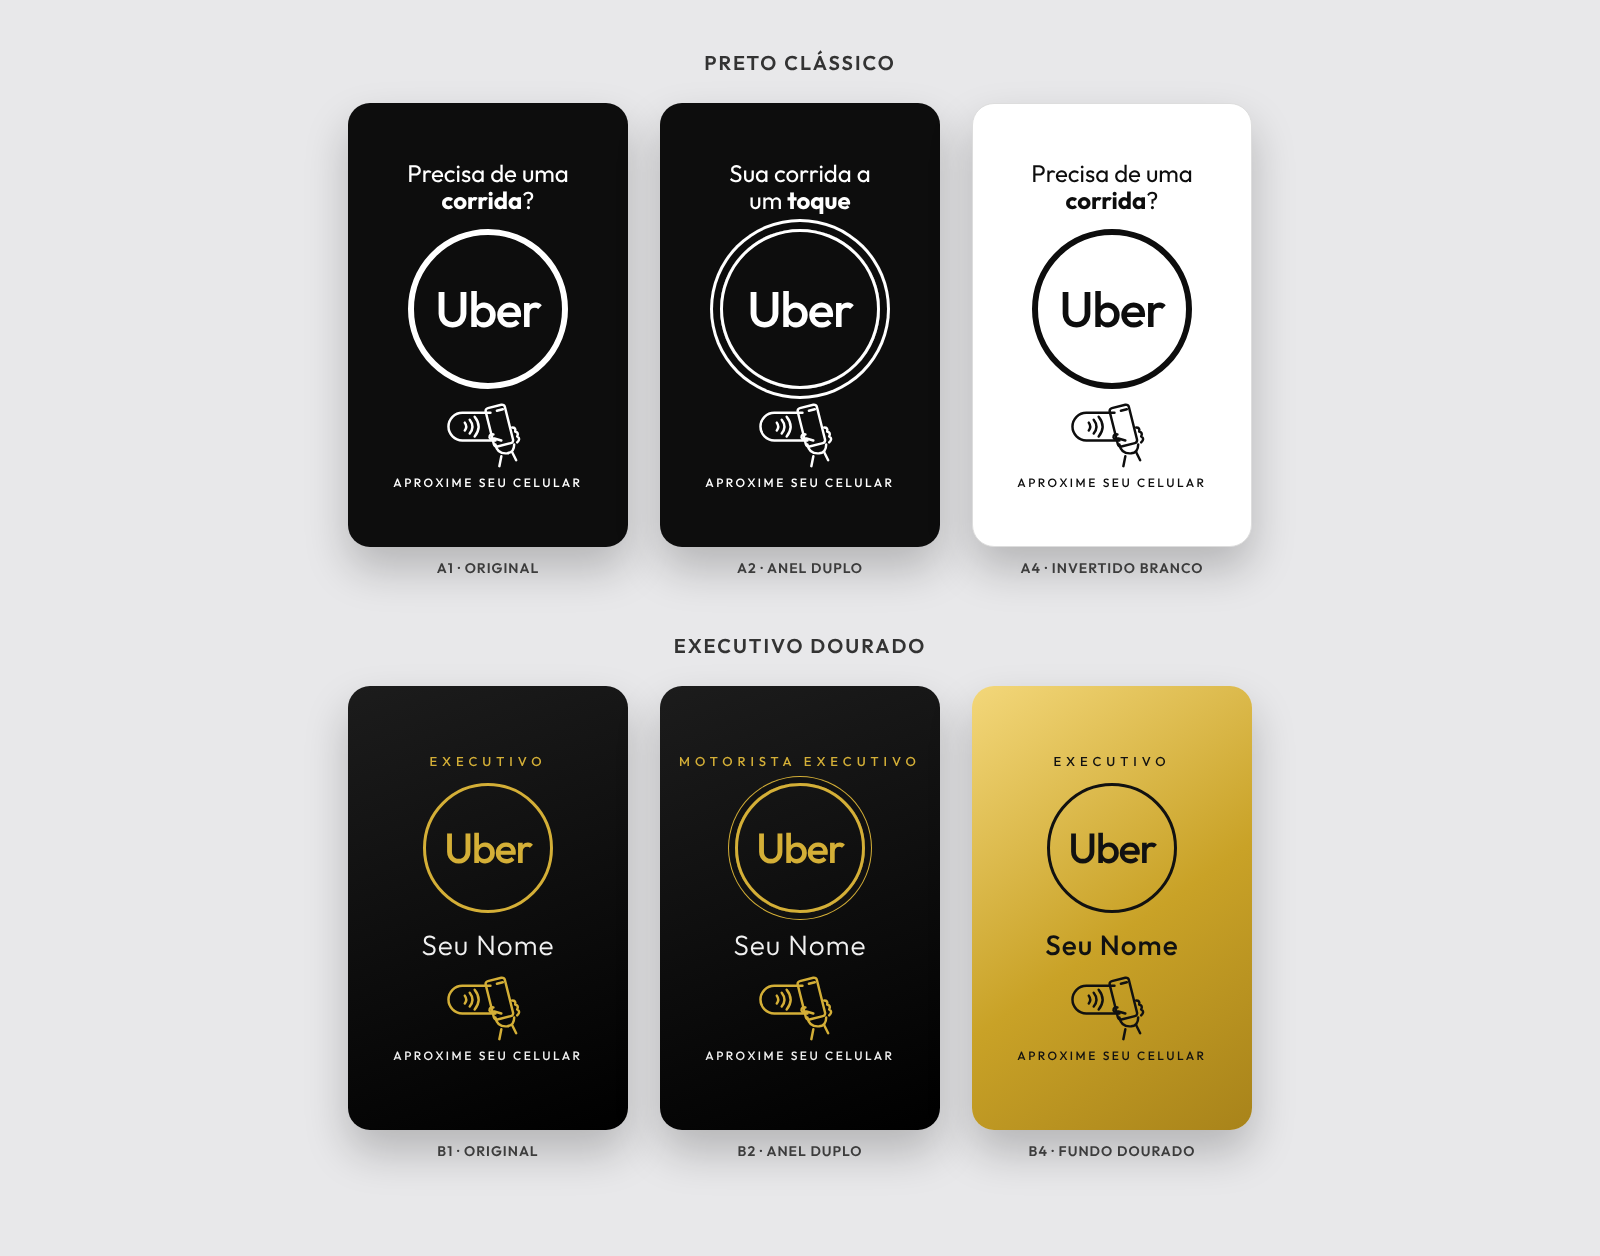
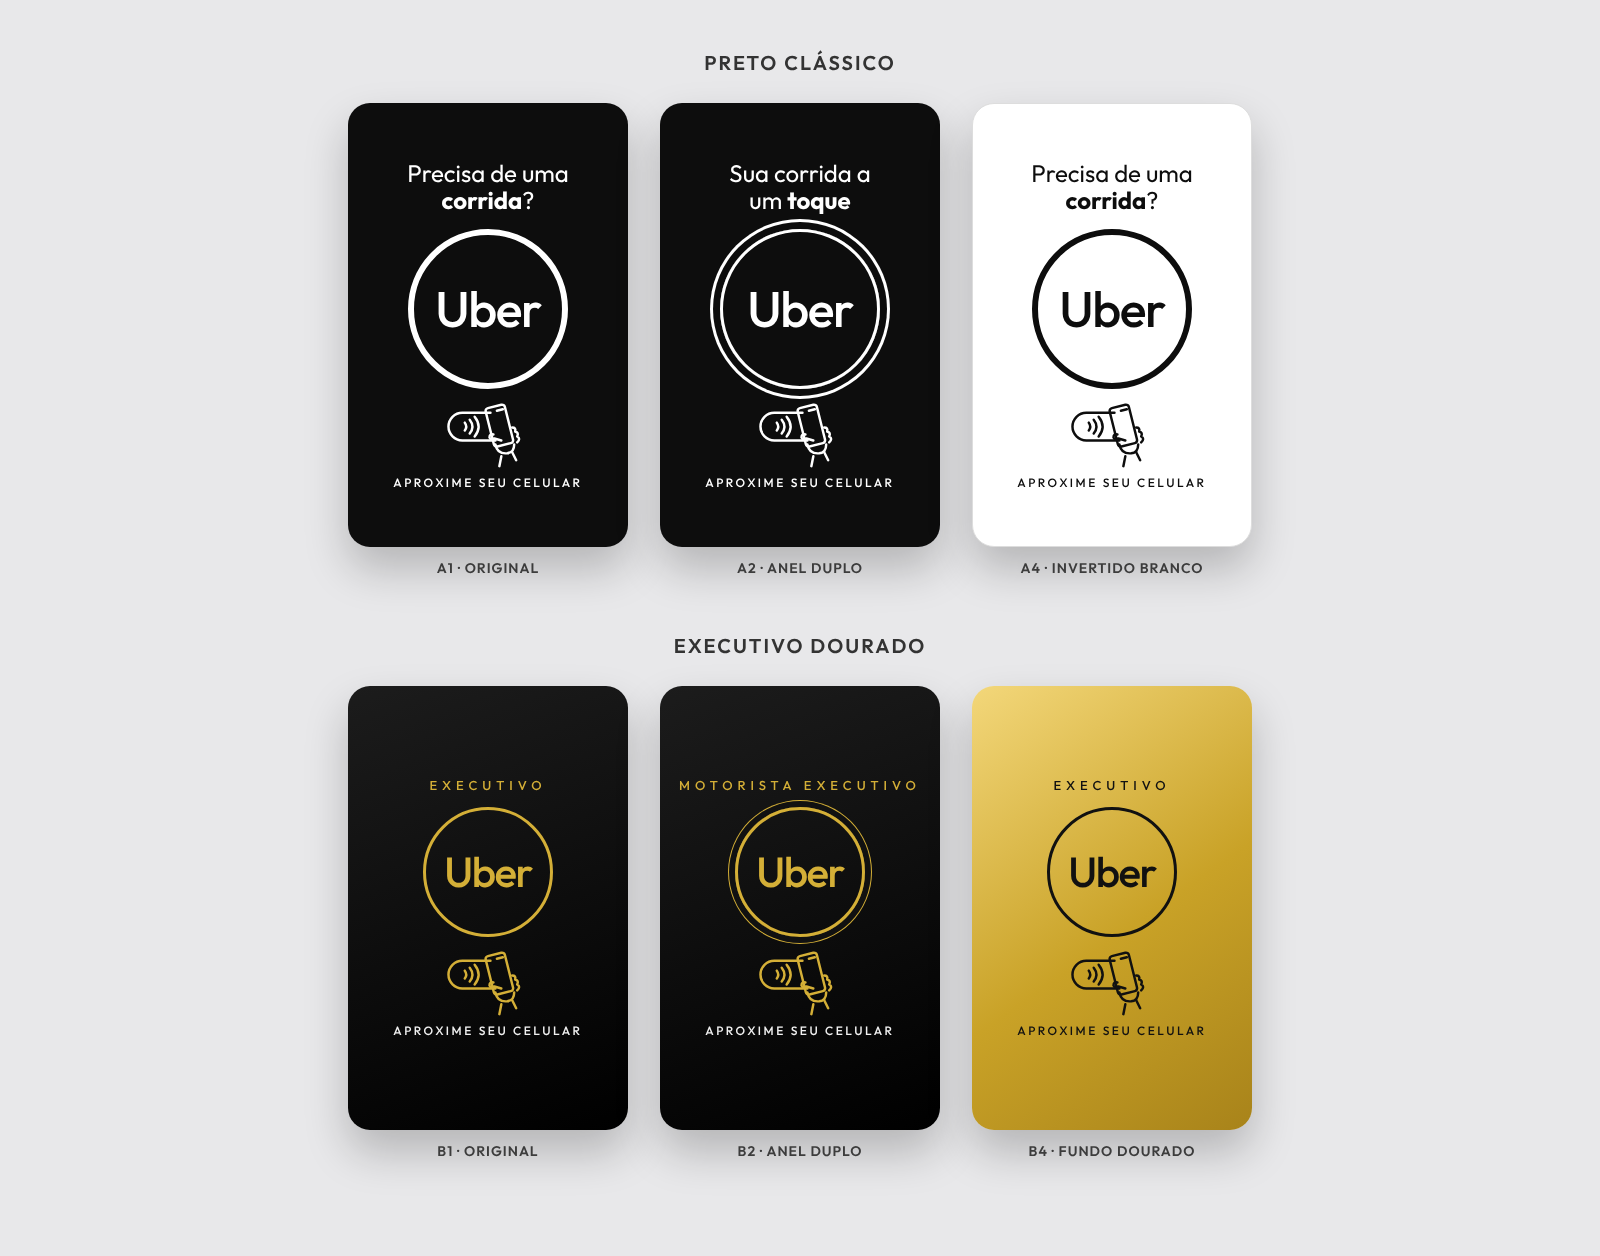
Remove o nome dos modelos dourados com Uber
Claude-Session: https://claude.ai/code/session_01NBH2bsmdxjnXe4w8AvnTGC

Changed region(s): [[0.4375, 0.59, 0.5625, 0.8384], [0.25, 0.621, 0.3438, 0.8384], [0.6562, 0.621, 0.75, 0.8384]]

diff --git a/cartoes/modelos-uber.html b/cartoes/modelos-uber.html
@@ -112,21 +112,18 @@
   <figure><div class="card b b1">
     <p class="label">EXECUTIVO</p>
     <div class="ring"><span class="uber">Uber</span></div>
-    <div class="name">Seu Nome</div>
     <svg class="nfc"><use href="#nfc"/></svg><p class="cta">APROXIME SEU CELULAR</p>
   </div><figcaption>B1 · ORIGINAL</figcaption></figure>
 
   <figure><div class="card b b2">
     <p class="label">MOTORISTA EXECUTIVO</p>
     <div class="ring"><span class="uber">Uber</span></div>
-    <div class="name">Seu Nome</div>
     <svg class="nfc"><use href="#nfc"/></svg><p class="cta">APROXIME SEU CELULAR</p>
   </div><figcaption>B2 · ANEL DUPLO</figcaption></figure>
 
   <figure><div class="card b b4">
     <p class="label">EXECUTIVO</p>
     <div class="ring"><span class="uber">Uber</span></div>
-    <div class="name" style="font-weight:500">Seu Nome</div>
     <svg class="nfc"><use href="#nfc"/></svg><p class="cta">APROXIME SEU CELULAR</p>
   </div><figcaption>B4 · FUNDO DOURADO</figcaption></figure>
 </div>
